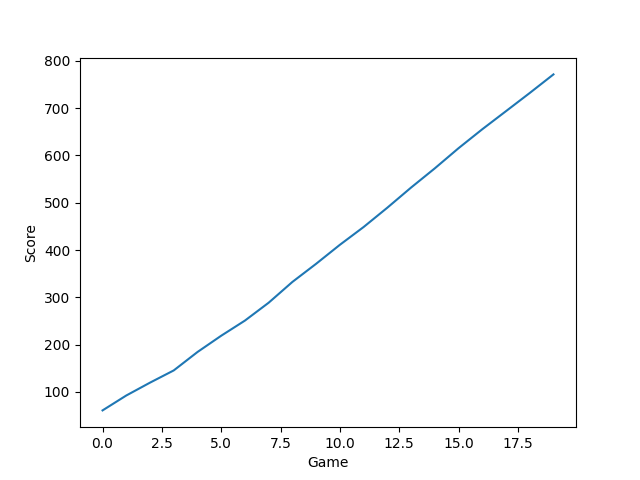
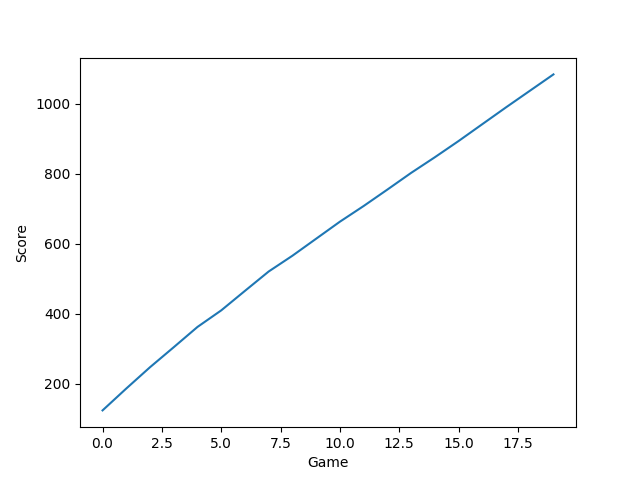
critic only take worker state

diff --git a/model/critic.py b/model/critic.py
@@ -1,5 +1,6 @@
 import os
 import numpy as np
+import torch
 import torch.nn as nn
 import torch as T
 import torch.nn.functional as F
@@ -23,6 +24,11 @@ class CriticNetwork(nn.Module):
         # self.fc1.bias.data.uniform_(-f1, f1)
         self.bn1 = nn.LayerNorm(self.fc1_dims)
 
+        self.state_value = nn.Linear(3, self.fc1_dims)
+        temp = 1. / np.sqrt(self.state_value.weight.data.size()[0])
+        T.nn.init.uniform_(self.state_value.weight.data, -temp, temp)
+        T.nn.init.uniform_(self.state_value.bias.data, -temp, temp)
+
         self.fc2 = nn.Linear(self.fc1_dims, 1)
         f2 = 1. / np.sqrt(self.fc2.weight.data.size()[0])
         # f2 = 0.002
@@ -34,9 +40,16 @@ class CriticNetwork(nn.Module):
 
         self.to(self.device)
 
-    def forward(self, action):
+    def forward(self, action, state):
         x = self.fc1(action)
-        x = self.fc2(x)
+
+
+        if (state.shape[0] == 4):
+            state_value = self.state_value(state)
+        else:
+            temp = state[:, 1:]
+            state_value = self.state_value(temp)
+        x = self.fc2(T.add(x, state_value))
 
         return x
 

diff --git a/model/agent.py b/model/agent.py
@@ -89,8 +89,8 @@ class Agent(object):
         self.target_critic.eval()
         self.critic.eval()
         target_actions = self.target_actor.forward(new_state)
-        critic_value_ = self.target_critic.forward(target_actions)
-        critic_value = self.critic.forward(action)
+        critic_value_ = self.target_critic.forward(target_actions, new_state)
+        critic_value = self.critic.forward(action, state)
 
         target = []
         for j in range(self.batch_size):
@@ -108,7 +108,7 @@ class Agent(object):
         self.actor.optimizer.zero_grad()
         mu = self.actor.forward(state)
         self.actor.train()
-        actor_loss = self.critic.forward(mu)
+        actor_loss = self.critic.forward(mu, state)
         actor_loss = T.mean(actor_loss)
         actor_loss.backward()
         self.actor.optimizer.step()

diff --git a/environment/environment.py b/environment/environment.py
@@ -58,6 +58,7 @@ class TaskAllocationEnvironment(Env):
 
     def allocateTask(self, sort_train, predicted_load_capacity):
         allocation = [0] * predicted_load_capacity
+
         for a in sort_train:
             assign = False
             for i in range(len(predicted_load_capacity)):

diff --git a/main.py b/main.py
@@ -18,7 +18,7 @@ np.random.seed(0)
 def training():
     score = 0
     score_history = []
-    for epoch in range(5):
+    for epoch in range(10):
         print('epoch', epoch)
         for i in range(len(train)):
             game = 0
